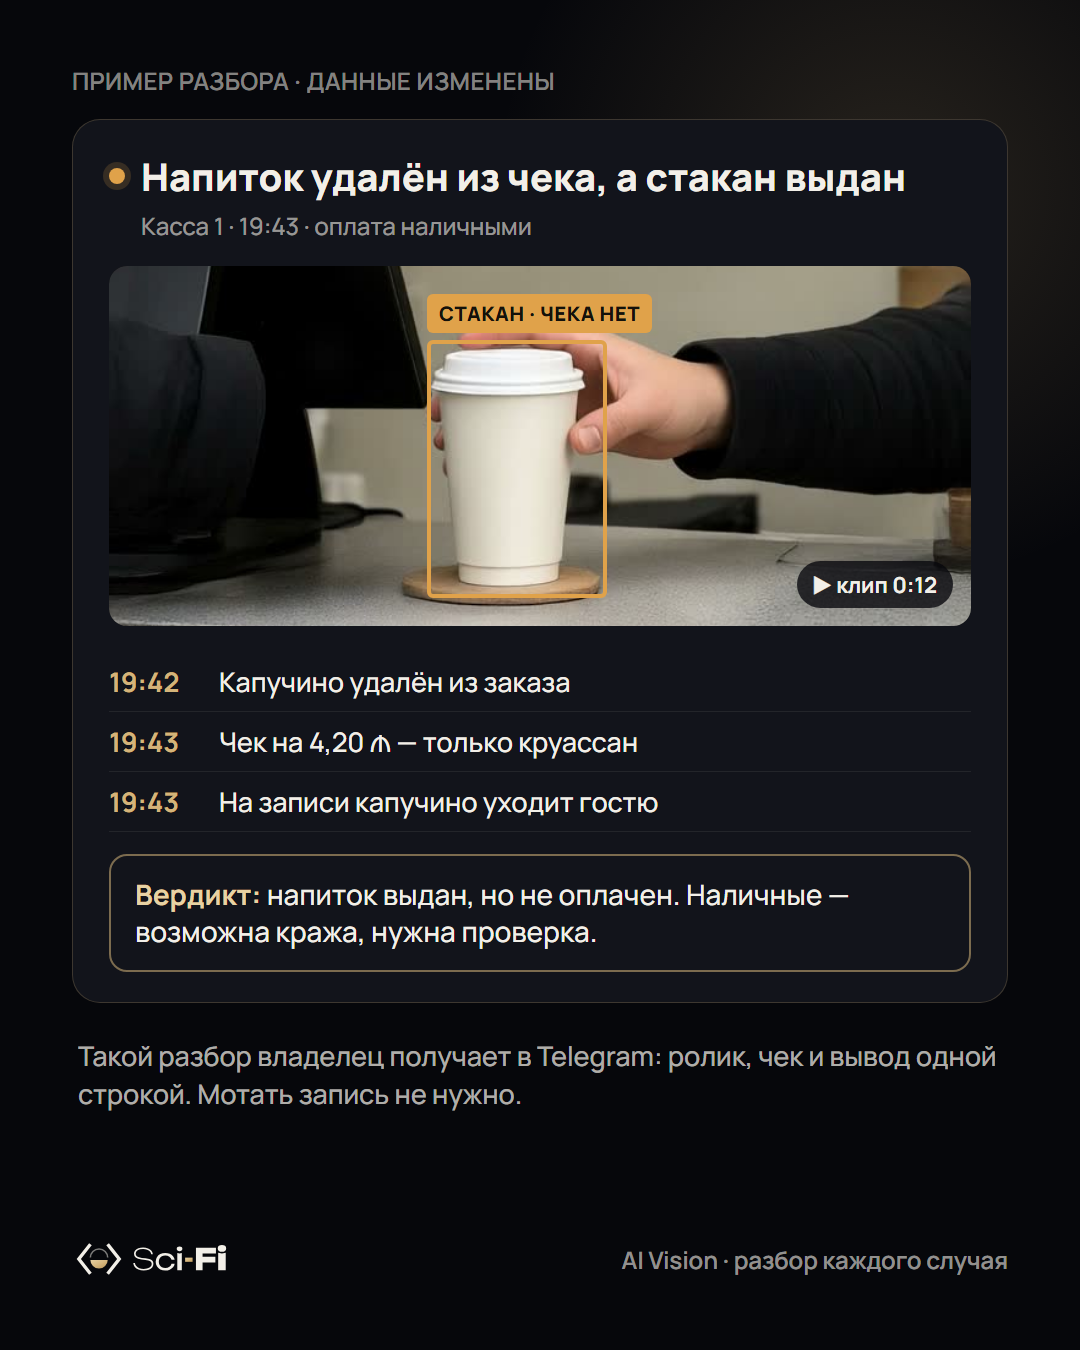
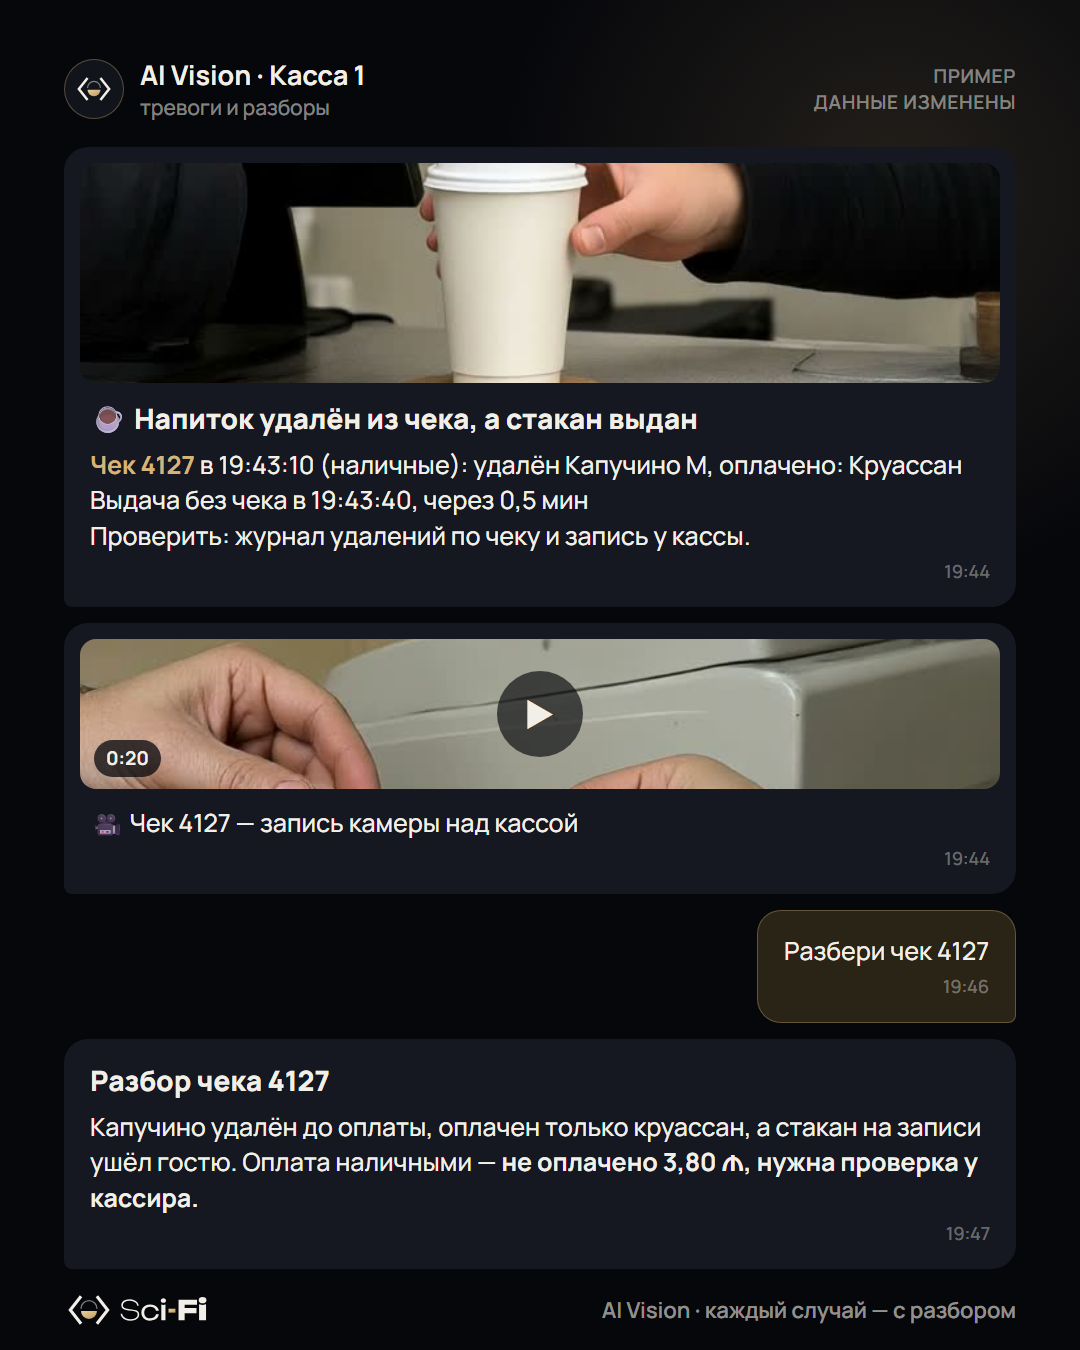
Showcase: case review in the real alert format, cash change alert

diff --git a/README.md b/README.md
@@ -21,9 +21,17 @@ Each one on its own looks like a mistake. That is why every mismatch gets a revi
 
 ## What a case review looks like
 
-![Case review message](assets/06-case-review-message.png)
+The owner's chat, as it works today (shown in Russian, example with changed data):
 
-Time → what the recording shows → what the receipt says → how it was paid → verdict. The interface is shown in Russian; the example uses changed data.
+1. **Alert with a frame** — "Drink deleted from the receipt, but the cup was handed out": receipt number, payment type, what was deleted and what was paid, when the cup left.
+2. **Clip** — the recording from the camera over the till, ready to play.
+3. **Review on request** — "review receipt 4127": what the footage shows, what was paid, and a one-line verdict.
+
+![Case review in the owner's chat](assets/06-case-review-message.png)
+
+With cash, the camera also reads the till screen: if the guest handed over 20 ₼ and got less change than the till shows, the difference left in the drawer is in the alert.
+
+![Cash change alert](assets/07-cash-change-message.png)
 
 ## Honest by design
 
